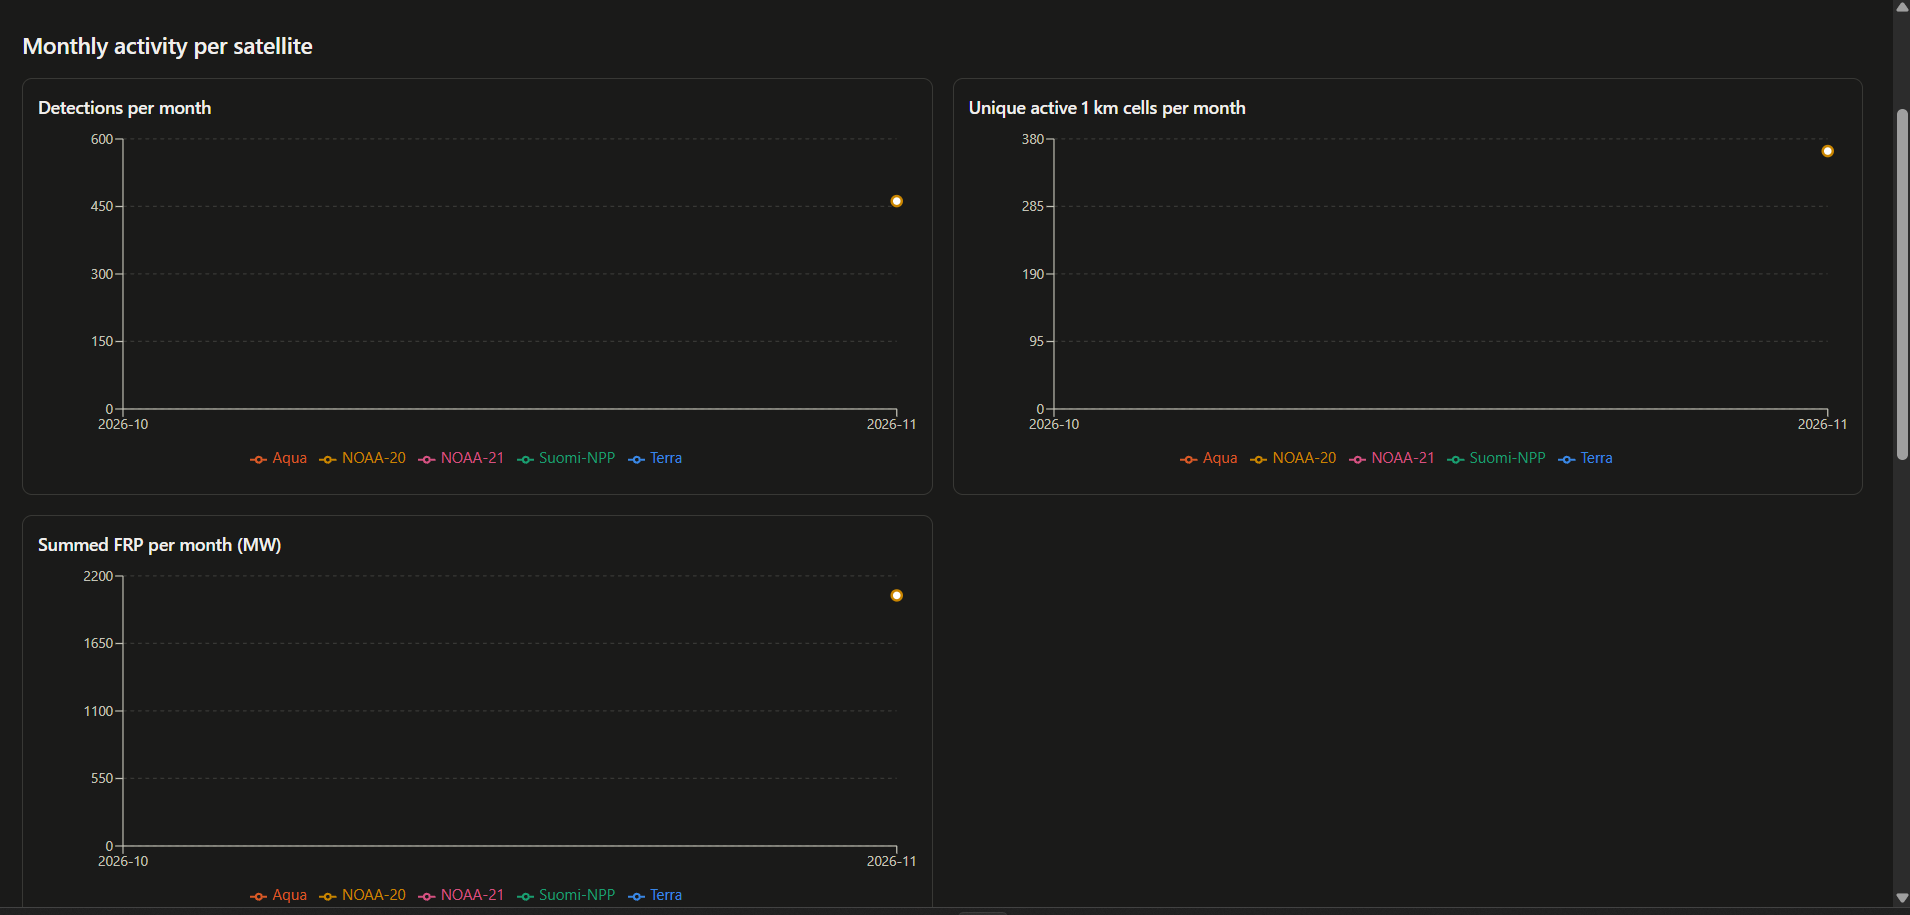
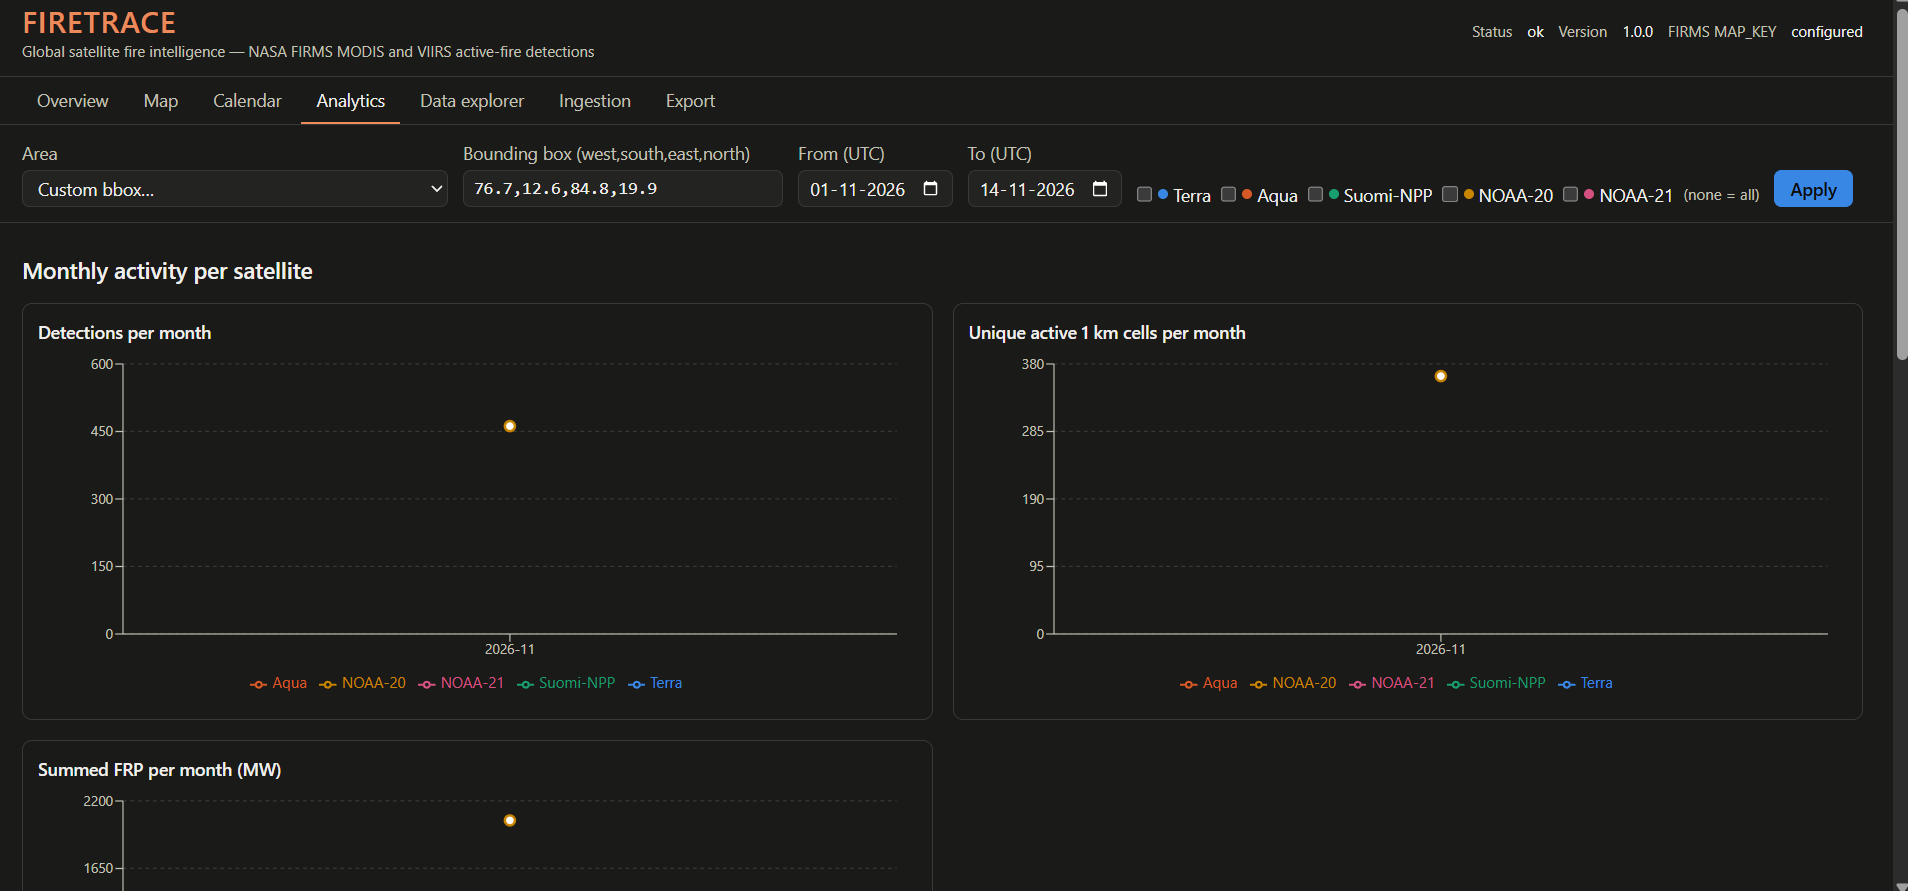
release: FIRETRACE 1.0.0 — MIT license, screenshots, final records
MIT LICENSE (owner's choice), dashboard screenshots with real NOAA-20 data
in the README, CHANGELOG 1.0.0, and final verification records in
PROJECT_PROGRESS.md and docs/FINAL_REPORT.md.

Claude-Session: https://claude.ai/code/session_01KKvsUBhuC2RZuBh5TRCATG

diff --git a/PROJECT_PROGRESS.md b/PROJECT_PROGRESS.md
@@ -72,7 +72,7 @@ target: tests, lint, type check, build and startup. Only verified work is merged
 | 5a. REST API — all spec §11 endpoints, saved AOIs (Shapely-validated GeoJSON), strict JSON, upload/FIRMS ingestion, exports | **Done — verified 2026-11-14 on Windows** | pytest 175 passed (first run 174/175: upload provenance name, fixed in 7964055), ruff clean | 6a14ae2, 7964055, merge f0309fd |
 | 5b. Dashboard — Overview, Map, Calendar, Analytics, Explorer, Ingestion, Export; validated colour encodings | **Done — verified 2026-11-14 on Windows** | tsc clean; Vitest 23 passed (first run 22/23: native form validation, fixed); build OK, main chunk 259.73 kB with Map and Analytics lazy; pytest 175. Viewed with real data (user report) | 43367d9, 777faa8, merge b0ac976, tag `v0.5-dashboard` |
 | 6a. Validation — UTC-labelled timestamps (API + dashboard), crash-safe partition compaction with recovery and store verification (`app.cli.compact`), synthetic benchmark (`app.cli.benchmark`) (branch `phase6-validation`) | **Done — verified 2026-11-14 on Windows** | First Windows run (fdafbac): real store verified (462 rows, 0 duplicates, 0 misplaced); 2M-row benchmark stalled in import (one file per partition per chunk) — fixed with buffered, single-Arrow-table writes. Second run (9808fcf): Vitest 25 passed, build OK (main chunk 259.95 kB); 200k-row uniform benchmark still slow (~11,000 partitions of ~18 rows: per-file overhead) — zero-copy slice writes, import progress output, clustered default spread with `--spread uniform` kept as the worst case. Third run (a72caa9): pytest 187 passed, ruff clean; benchmarks 200k rows (import 17 s, 775 MB) and 2M rows (import 359 s, compact 406 s, verify 55 s, aggregates 154 s, area query 51 s, 1.64 GB peak), both 0 duplicates / 0 misplaced — see docs/validation/performance.md. Final run (3b8af43): pytest 187 passed in 65 s | fdafbac, 9808fcf, a72caa9, 3b8af43, merge f761251, tag `v0.6-validation` |
-| 6b. Delivery — httpx2 test-client pin, clean-clone install test, MODIS confidence thresholds checked against the user's guide, data provenance, methodology, final report (branch `phase6-delivery`) | Clean clone verified; final docs awaiting verification | Clean clone of de125b8 from GitHub on Windows: pip install from requirements.txt, pytest 187 passed with 0 warnings, ruff clean, npm ci 0 vulnerabilities, Vitest 25 passed, build OK | de125b8, … |
+| 6b. Delivery — httpx2 test-client pin, clean-clone install test, MODIS confidence thresholds checked against the user's guide, data provenance, methodology, final report, uncovered platforms shown as unknown (not 0) on the Overview, version 1.0.0, MIT license, screenshots (branch `phase6-delivery`) | **Done — verified 2026-11-14 on Windows** | Clean clone of de125b8 from GitHub: pip install from requirements.txt, pytest 187 passed with 0 warnings, ruff clean, npm ci 0 vulnerabilities, Vitest 25 passed, build OK, backend health ok without a MAP_KEY. Final screenshots found the Overview showing 0 for uncovered platforms (fixed in 697b2de, confirmed in the dashboard). Merge rule for v1.0.0: pytest 188 passed, ruff clean, Vitest 28 passed and build OK on Windows before merging | de125b8, c1598a8, 36a1e38, 697b2de and the release commit, tag `v1.0.0` |
 
 ### Phase 1 verification results (Windows 11 PC, 2026-11-14)
 

diff --git a/README.md b/README.md
@@ -30,6 +30,22 @@ See `docs/architecture/ARCHITECTURE.md` and `docs/IMPLEMENTATION_PLAN.md`.
 - No synthetic data is ever presented as NASA observations. Test fixtures are labelled
   `SYNTHETIC TEST DATA`.
 
+## Screenshots
+
+Real data: 462 NOAA-20 VIIRS NRT detections, 2026-11-11 to 2026-11-13, over the
+example area 76.7, 12.6, 84.8, 19.9 (see `docs/DATA_PROVENANCE.md`). Other satellites
+show "—" or hatched months because no data was imported for them there.
+
+| Overview | Map |
+|---|---|
+| ![Overview: per-platform detections and imported coverage](docs/screenshots/overview.png) | ![Map: VIIRS detections as dots sized by FRP](docs/screenshots/map.png) |
+
+| Calendar | Analytics |
+|---|---|
+| ![Calendar: one row per satellite, partial and missing months marked](docs/screenshots/calendar.png) | ![Analytics: monthly series per satellite](docs/screenshots/analytics-charts.png) |
+
+![Analytics tables: yearly totals, FRP and confidence, experimental anomalies and MODIS–VIIRS comparison](docs/screenshots/analytics-tables.png)
+
 ## Data sources
 
 - **FIRMS Area API** (recent data and keyed backfill): needs a MAP_KEY.
@@ -171,3 +187,8 @@ See `docs/validation/performance.md`.
 cd backend;  python -m pytest -q; python -m ruff check .
 cd ..\frontend; npm test; npm run build
 ```
+
+## License
+
+Code: MIT (see `LICENSE`). NASA FIRMS data is not included in this repository; when you
+use it, follow the NASA FIRMS citation and data-use policy.

diff --git a/docs/FINAL_REPORT.md b/docs/FINAL_REPORT.md
@@ -84,8 +84,14 @@ a mean of per-sensor anomaly scores, never a sum of raw counts (F); validation r
 On the Windows PC, clean clone of `phase6-delivery` (commit de125b8, 2026-11-14):
 backend pytest **187 passed, 0 warnings**; ruff clean; `npm ci` 0 vulnerabilities;
 Vitest **25 passed**; `tsc --noEmit` + `vite build` succeeded (main chunk 259.95 kB, Map
-and Analytics lazy-loaded). The delivery commit adds one MODIS confidence boundary test
-(188 backend tests); its Windows result is recorded in `PROJECT_PROGRESS.md`.
+and Analytics lazy-loaded); `GET /api/health` ok without a MAP_KEY.
+
+The release adds a MODIS confidence boundary test and three coverage-display tests:
+v1.0.0 is merged only after **188** backend and **28** frontend tests pass on Windows
+with ruff clean and a successful build.
+
+Found and fixed during final screenshots: the Overview showed 0 detections for
+platforms without imported coverage of the area; it now shows "—" (unknown).
 
 All test data is labelled SYNTHETIC TEST DATA.
 

diff --git a/CHANGELOG.md b/CHANGELOG.md
@@ -1,6 +1,9 @@
 # Changelog
 
-## [Unreleased]
+## [1.0.0] - 2026-11-14
+### Added (release)
+- MIT `LICENSE`; dashboard screenshots in `docs/screenshots/` and the README.
+
 ### Added (Phase 6b)
 - `docs/FINAL_REPORT.md` (spec §18), `docs/DATA_PROVENANCE.md`,
   `docs/science/METHODOLOGY.md`; documentation index in the README.
